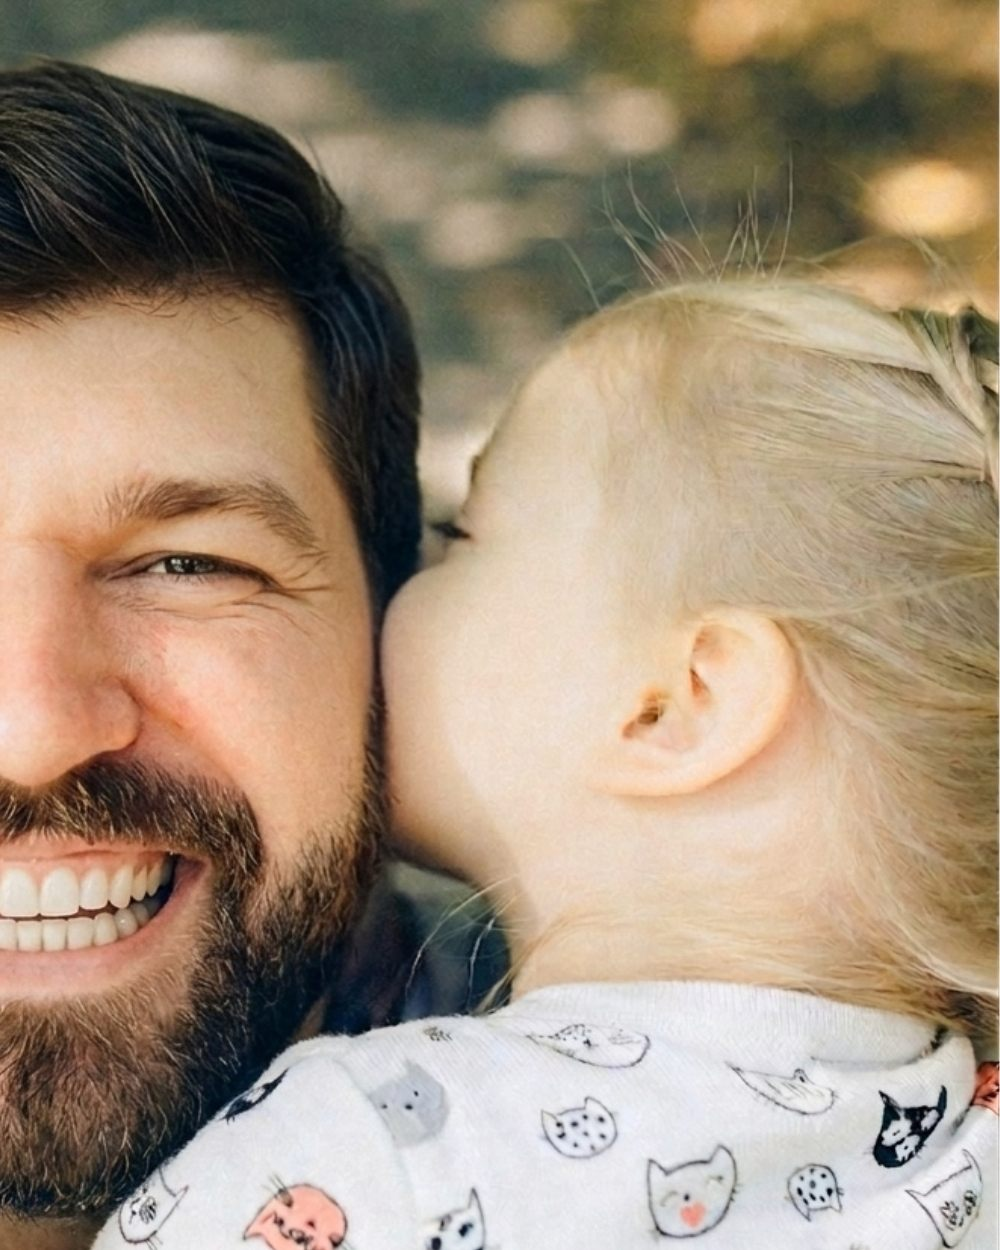
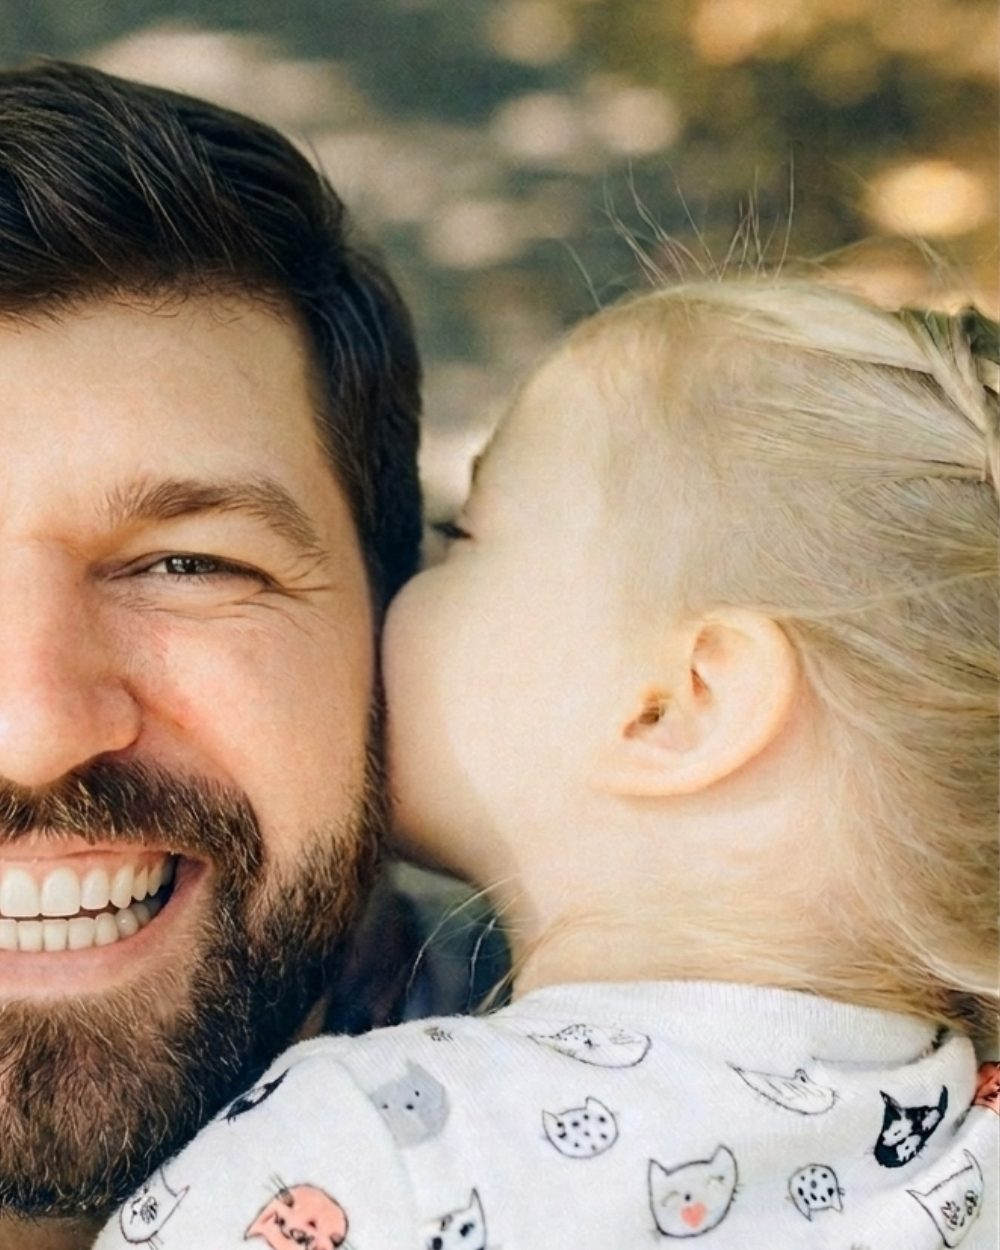
Optimize hero photo: WebP with JPEG fallback
Compresses the replaced hero photo (683KB -> 149KB JPEG) and adds a
WebP version (79KB) served via a <picture> element, so modern
browsers load a fraction of the original file size while older
browsers still get a working JPEG fallback.

diff --git a/index.html b/index.html
@@ -732,7 +732,10 @@ footer{background:#0D1F17;padding:32px 0;text-align:center}
 
     <div class="hero-media sr">
       <div class="hero-photo-card">
-        <img src="/assets/hero-photo.jpg" width="1000" height="1250" alt="A father embracing his young daughter, a warm candid moment representing the family GuardTies helps protect" loading="eager" fetchpriority="high">
+        <picture>
+          <source srcset="/assets/hero-photo.webp" type="image/webp">
+          <img src="/assets/hero-photo.jpg" width="1000" height="1250" alt="A father embracing his young daughter, a warm candid moment representing the family GuardTies helps protect" loading="eager" fetchpriority="high">
+        </picture>
       </div>
       <!-- THE SIGNATURE ELEMENT: Download in 24 hours badge, overlaid on the photo -->
       <div class="delivery-badge" aria-label="Download in 24 hours — $580 one-time">
